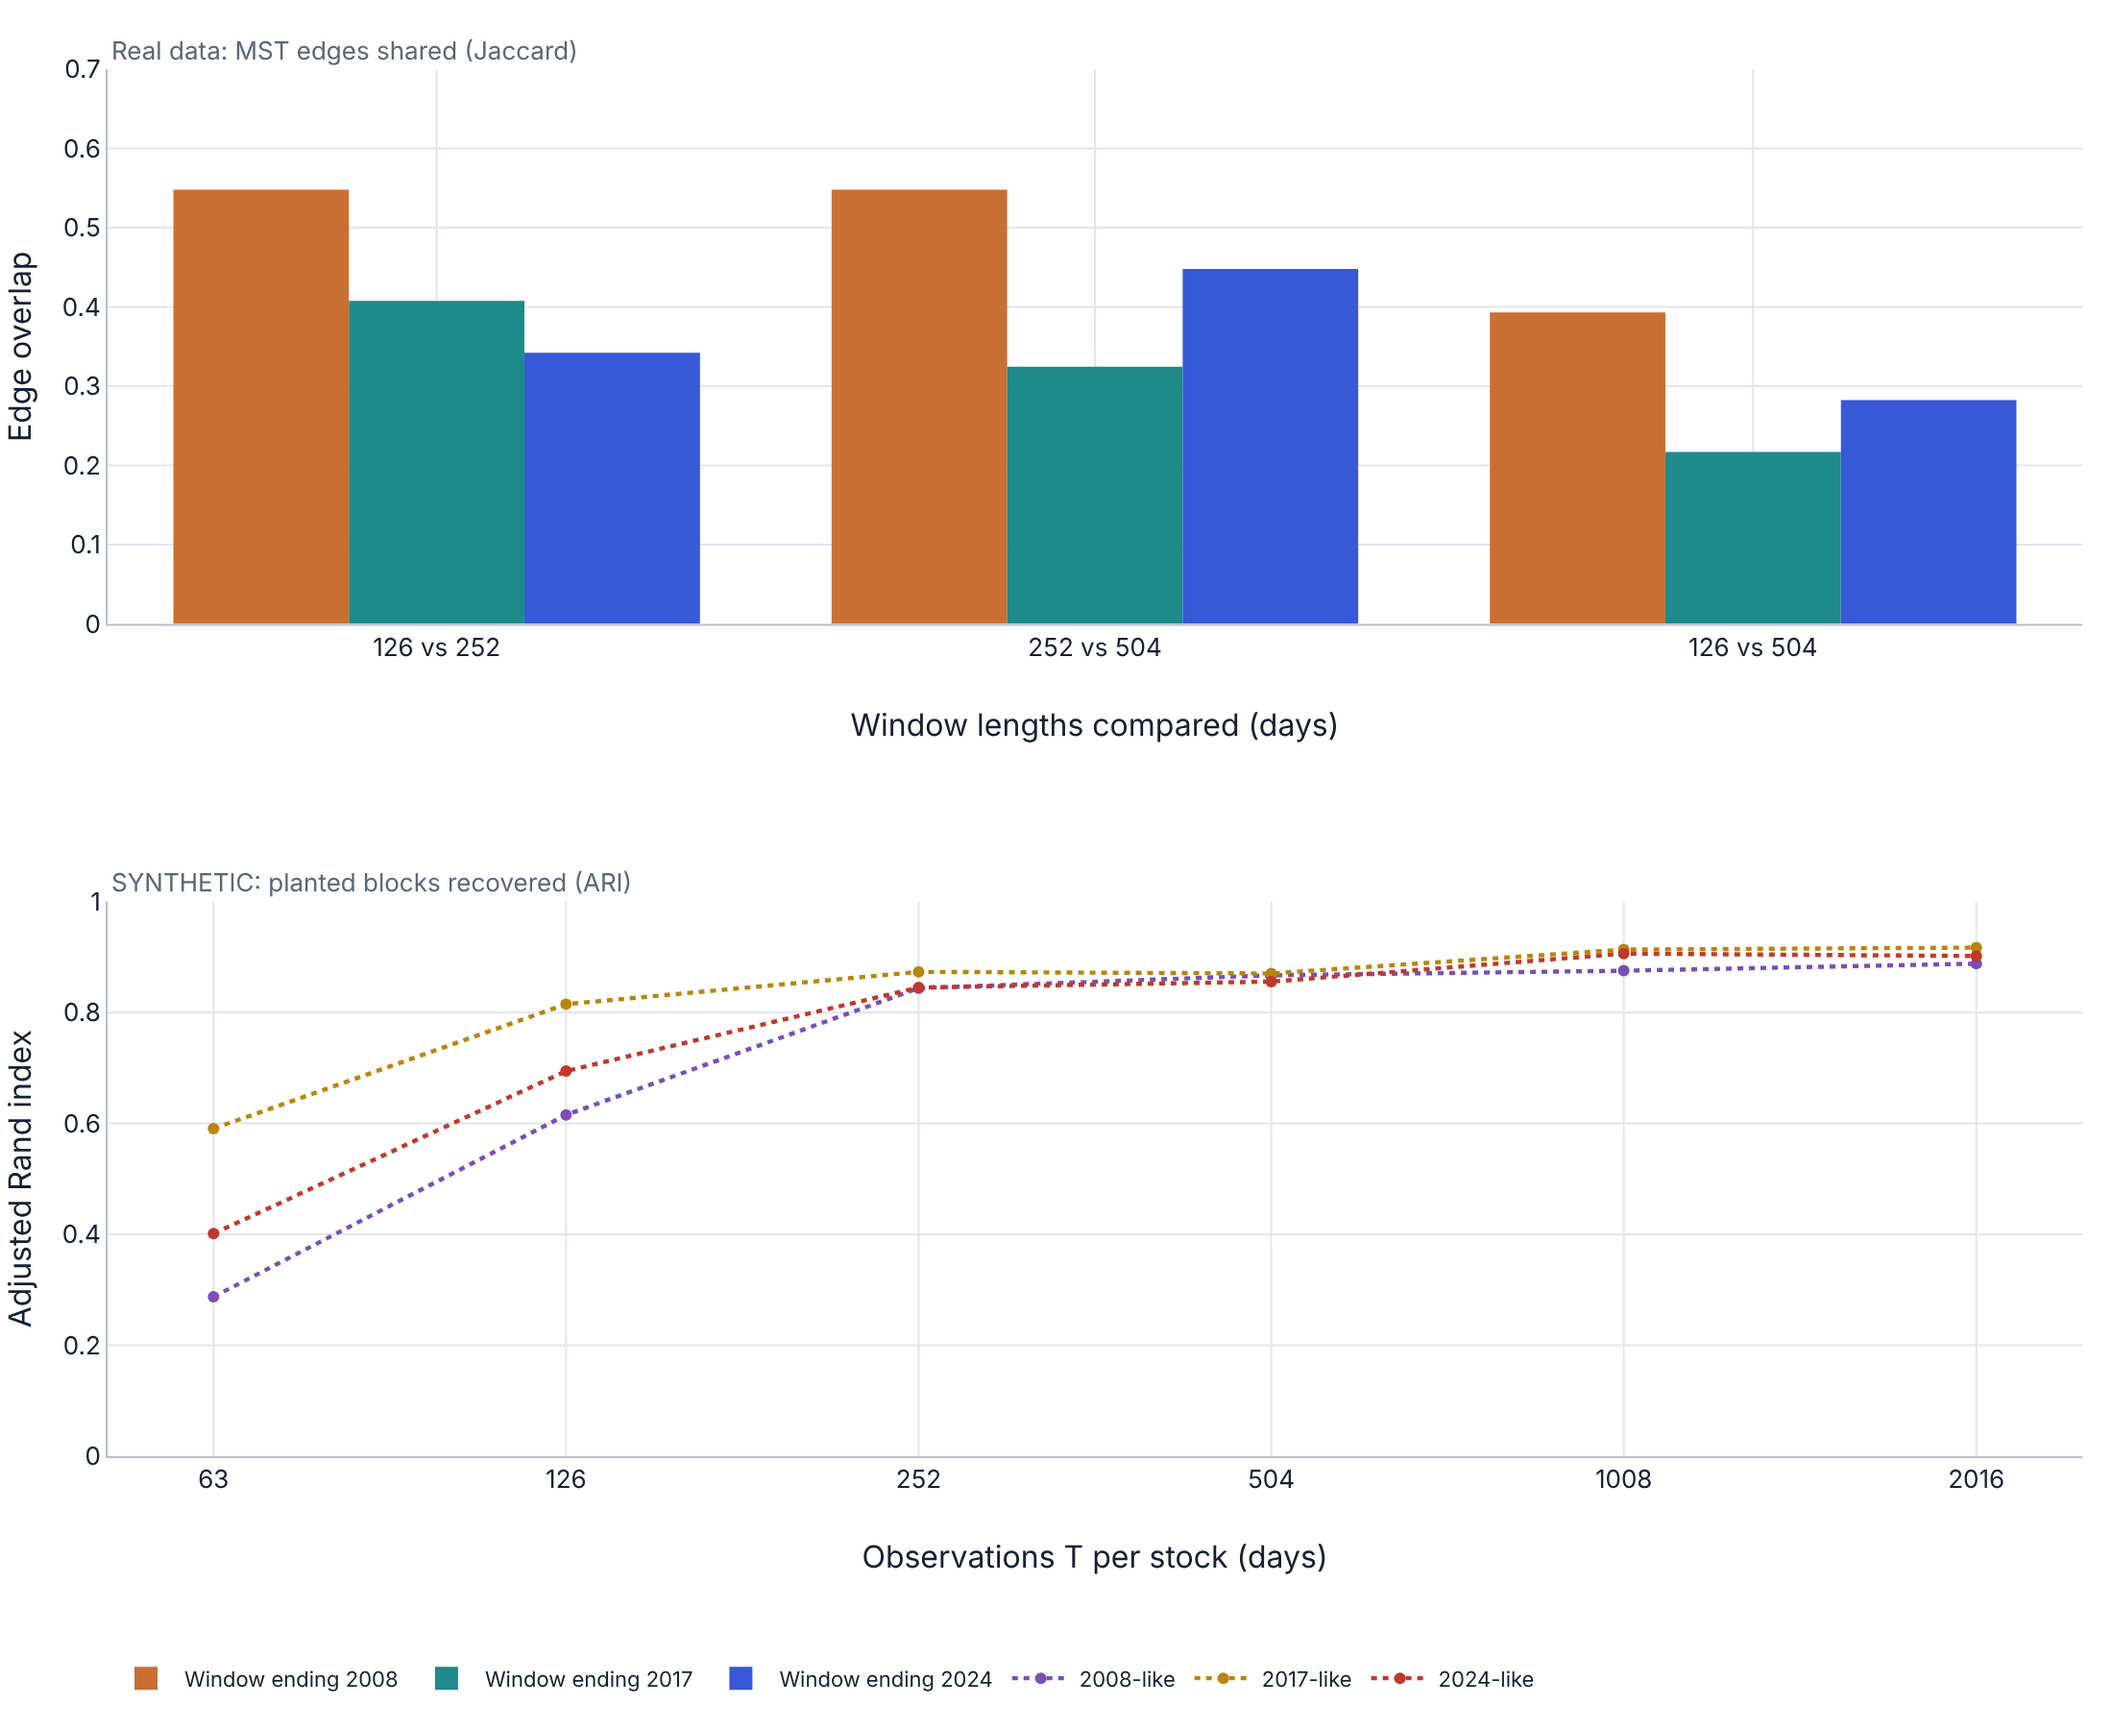
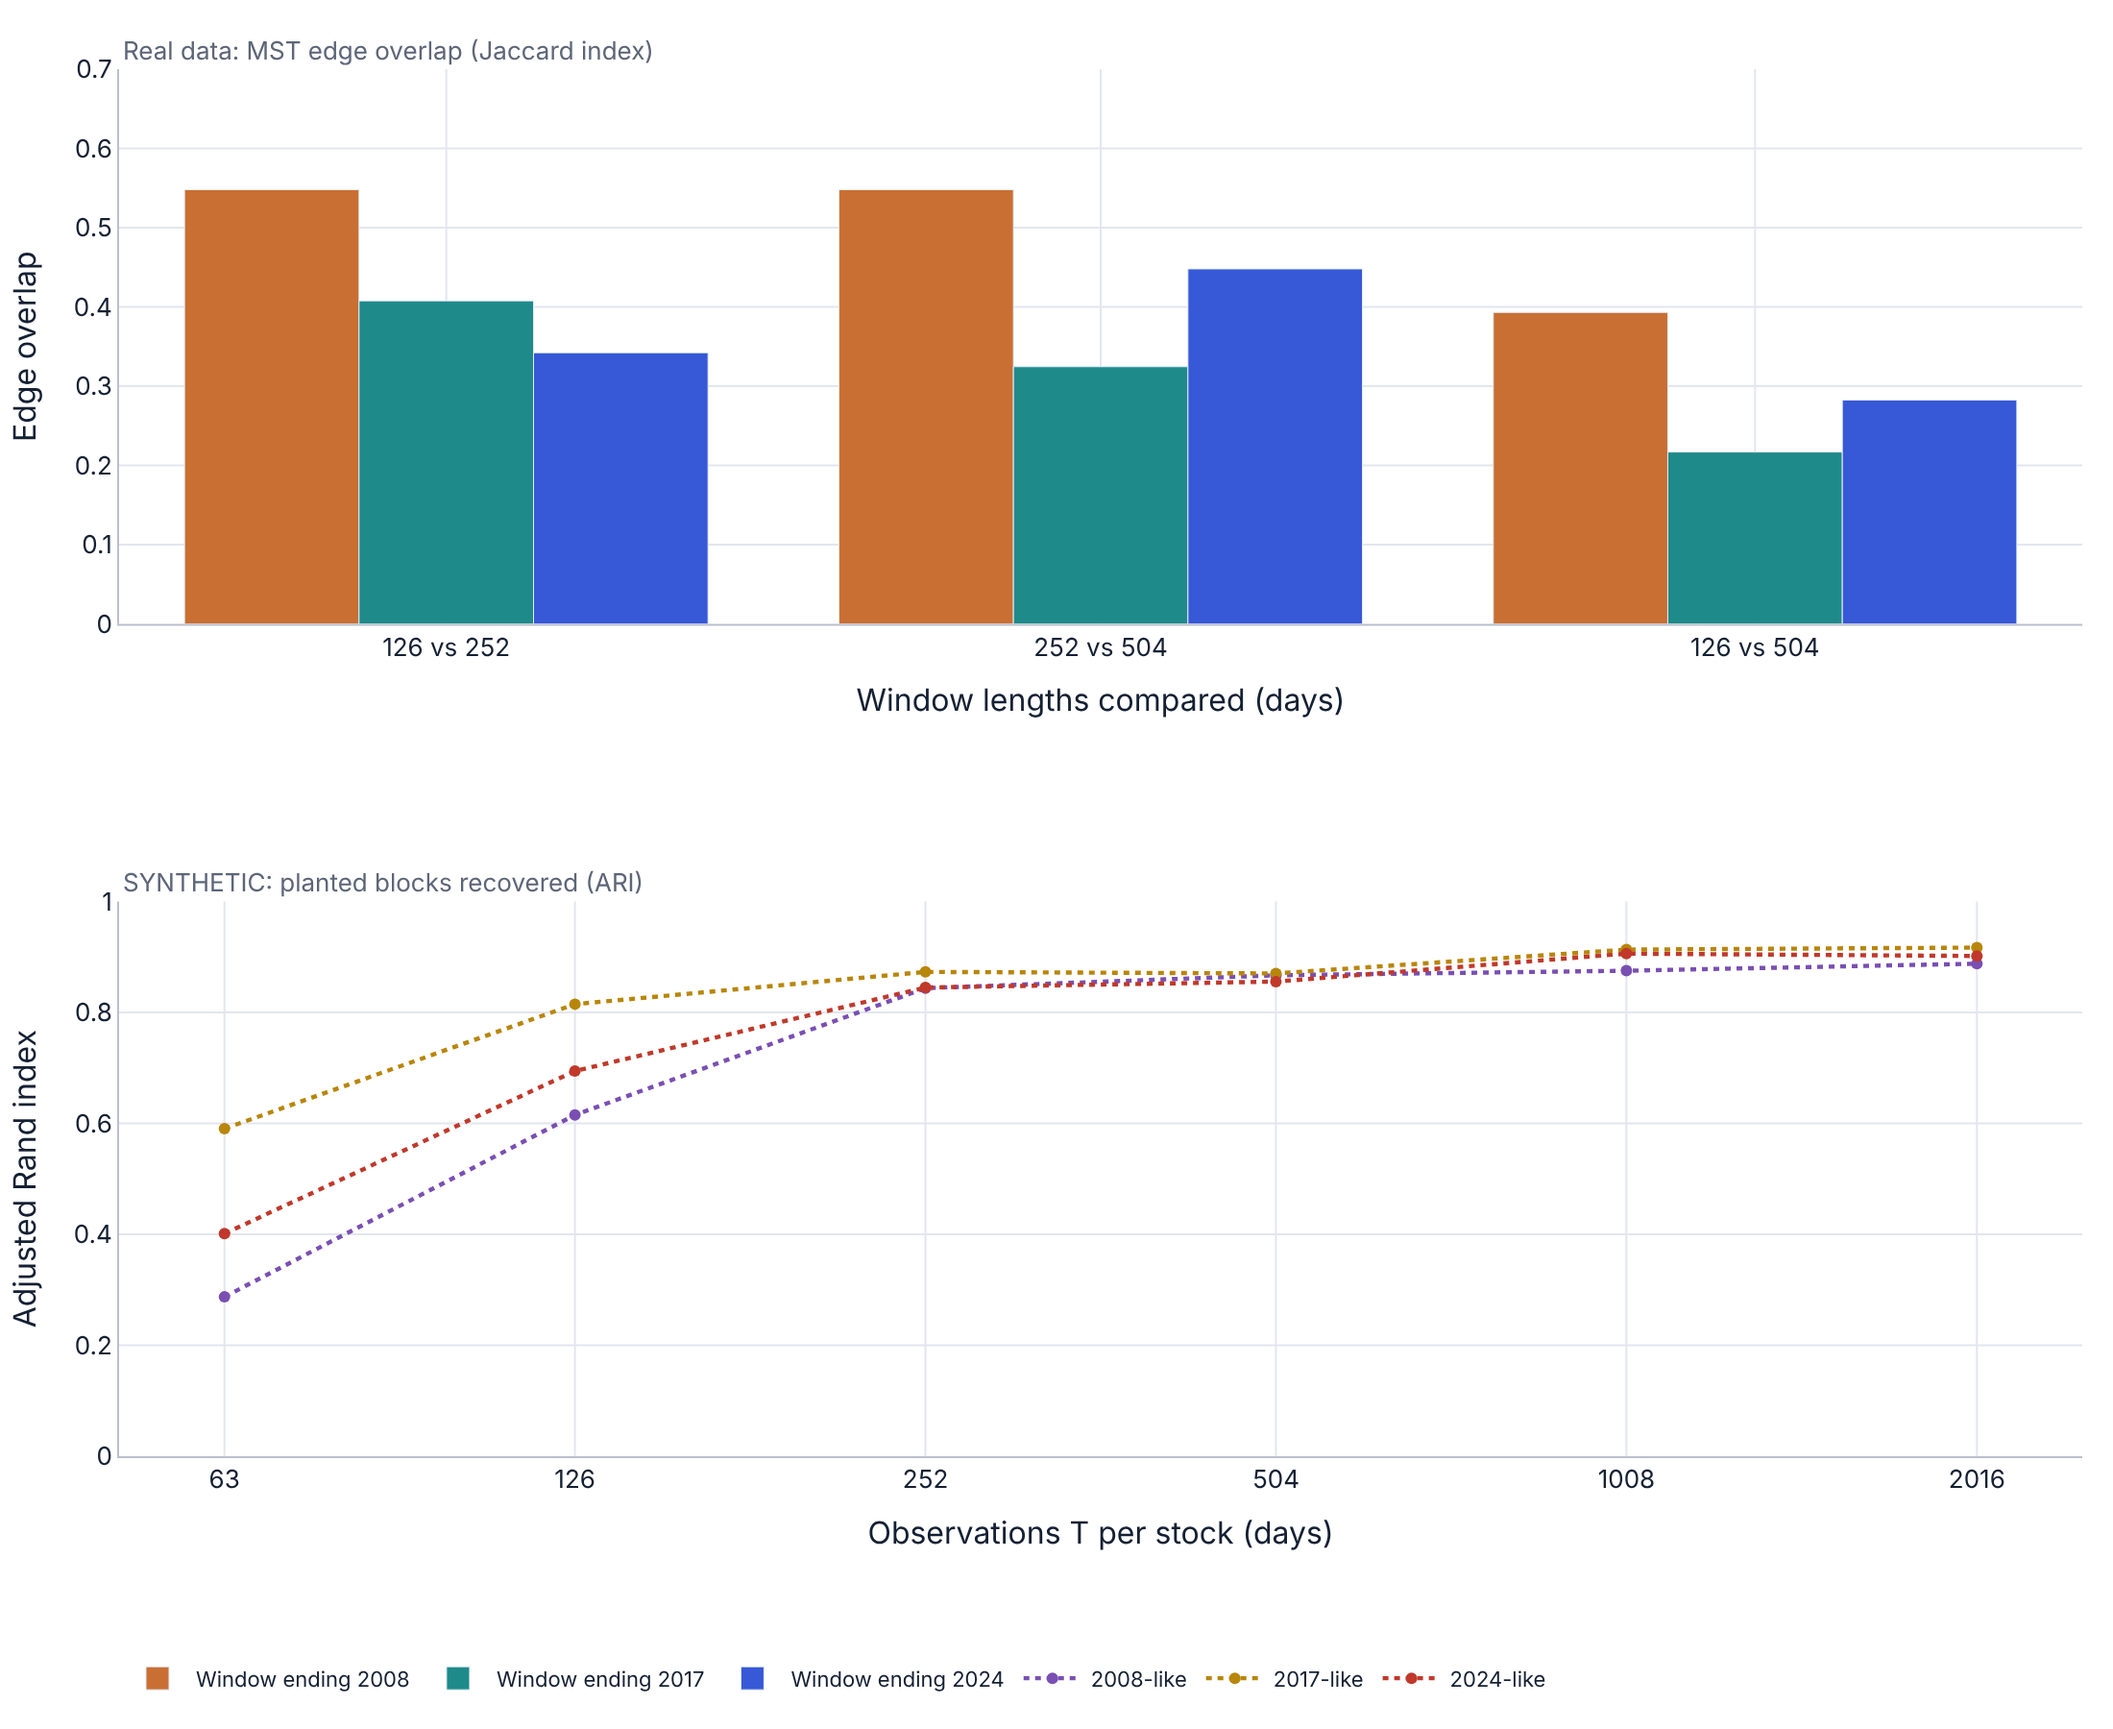
Figures 6 and 7: axis titles say edge overlap (Jaccard index)
Claude-Session: https://claude.ai/code/session_01Xkw4KpvMJFy5QcidRnXLjh

diff --git a/scripts/make_figures.py b/scripts/make_figures.py
@@ -145,7 +145,7 @@ if go_("05-persistence") :
     fig.add_trace(go.Scatter(x=[1, 60], y=[bt_.bootstrap_pair_noise_floor_median] * 2, mode="lines", line=dict(color=PALETTE[1], width=2, dash="dash"), name="Same-window bootstrap overlap (reference)",
                              hovertemplate="Two bootstrap resamples of one 252-day window (reference, not a null): median Jaccard %{y:.2f}<extra></extra>"))
     fig.update_layout(**BASE, height=460, margin=dict(l=56, r=16, t=16, b=50), xaxis=dict(title="Months between the two windows", type="log", tickvals=[1, 3, 6, 12, 24, 60], ticktext=["1", "3", "6", "12", "24", "60"], **AX),
-                      yaxis=dict(title="Share of MST edges in common (Jaccard)", range=[0, 0.8], **AX), legend=dict(orientation="h", x=0, y=1.22, font=dict(size=11)))
+                      yaxis=dict(title="MST edge overlap (Jaccard index)", range=[0, 0.8], **AX), legend=dict(orientation="h", x=0, y=1.22, font=dict(size=11)))
     out(fig, "05-persistence", (1100, 560))
 
 if go_("06-edge-reliability"):
@@ -163,7 +163,7 @@ if go_("06-edge-reliability"):
 
 if go_("07-window-and-recoverability"):
     syn = pd.read_csv(R / "synthetic_recoverability.csv")
-    fig = make_subplots(rows=2, cols=1, subplot_titles=["Real data: MST edges shared (Jaccard)", "SYNTHETIC: planted blocks recovered (ARI)"], vertical_spacing=.2)
+    fig = make_subplots(rows=2, cols=1, subplot_titles=["Real data: MST edge overlap (Jaccard index)", "SYNTHETIC: planted blocks recovered (ARI)"], vertical_spacing=.2)
     for i, y in enumerate(["2008", "2017", "2024"]):
         m = pd.read_csv(R / f"window_length_jaccard_{y}.csv", index_col=0)
         pairs = [("126 vs 252", m.loc[126, "252"]), ("252 vs 504", m.loc[252, "504"]), ("126 vs 504", m.loc[126, "504"])]
